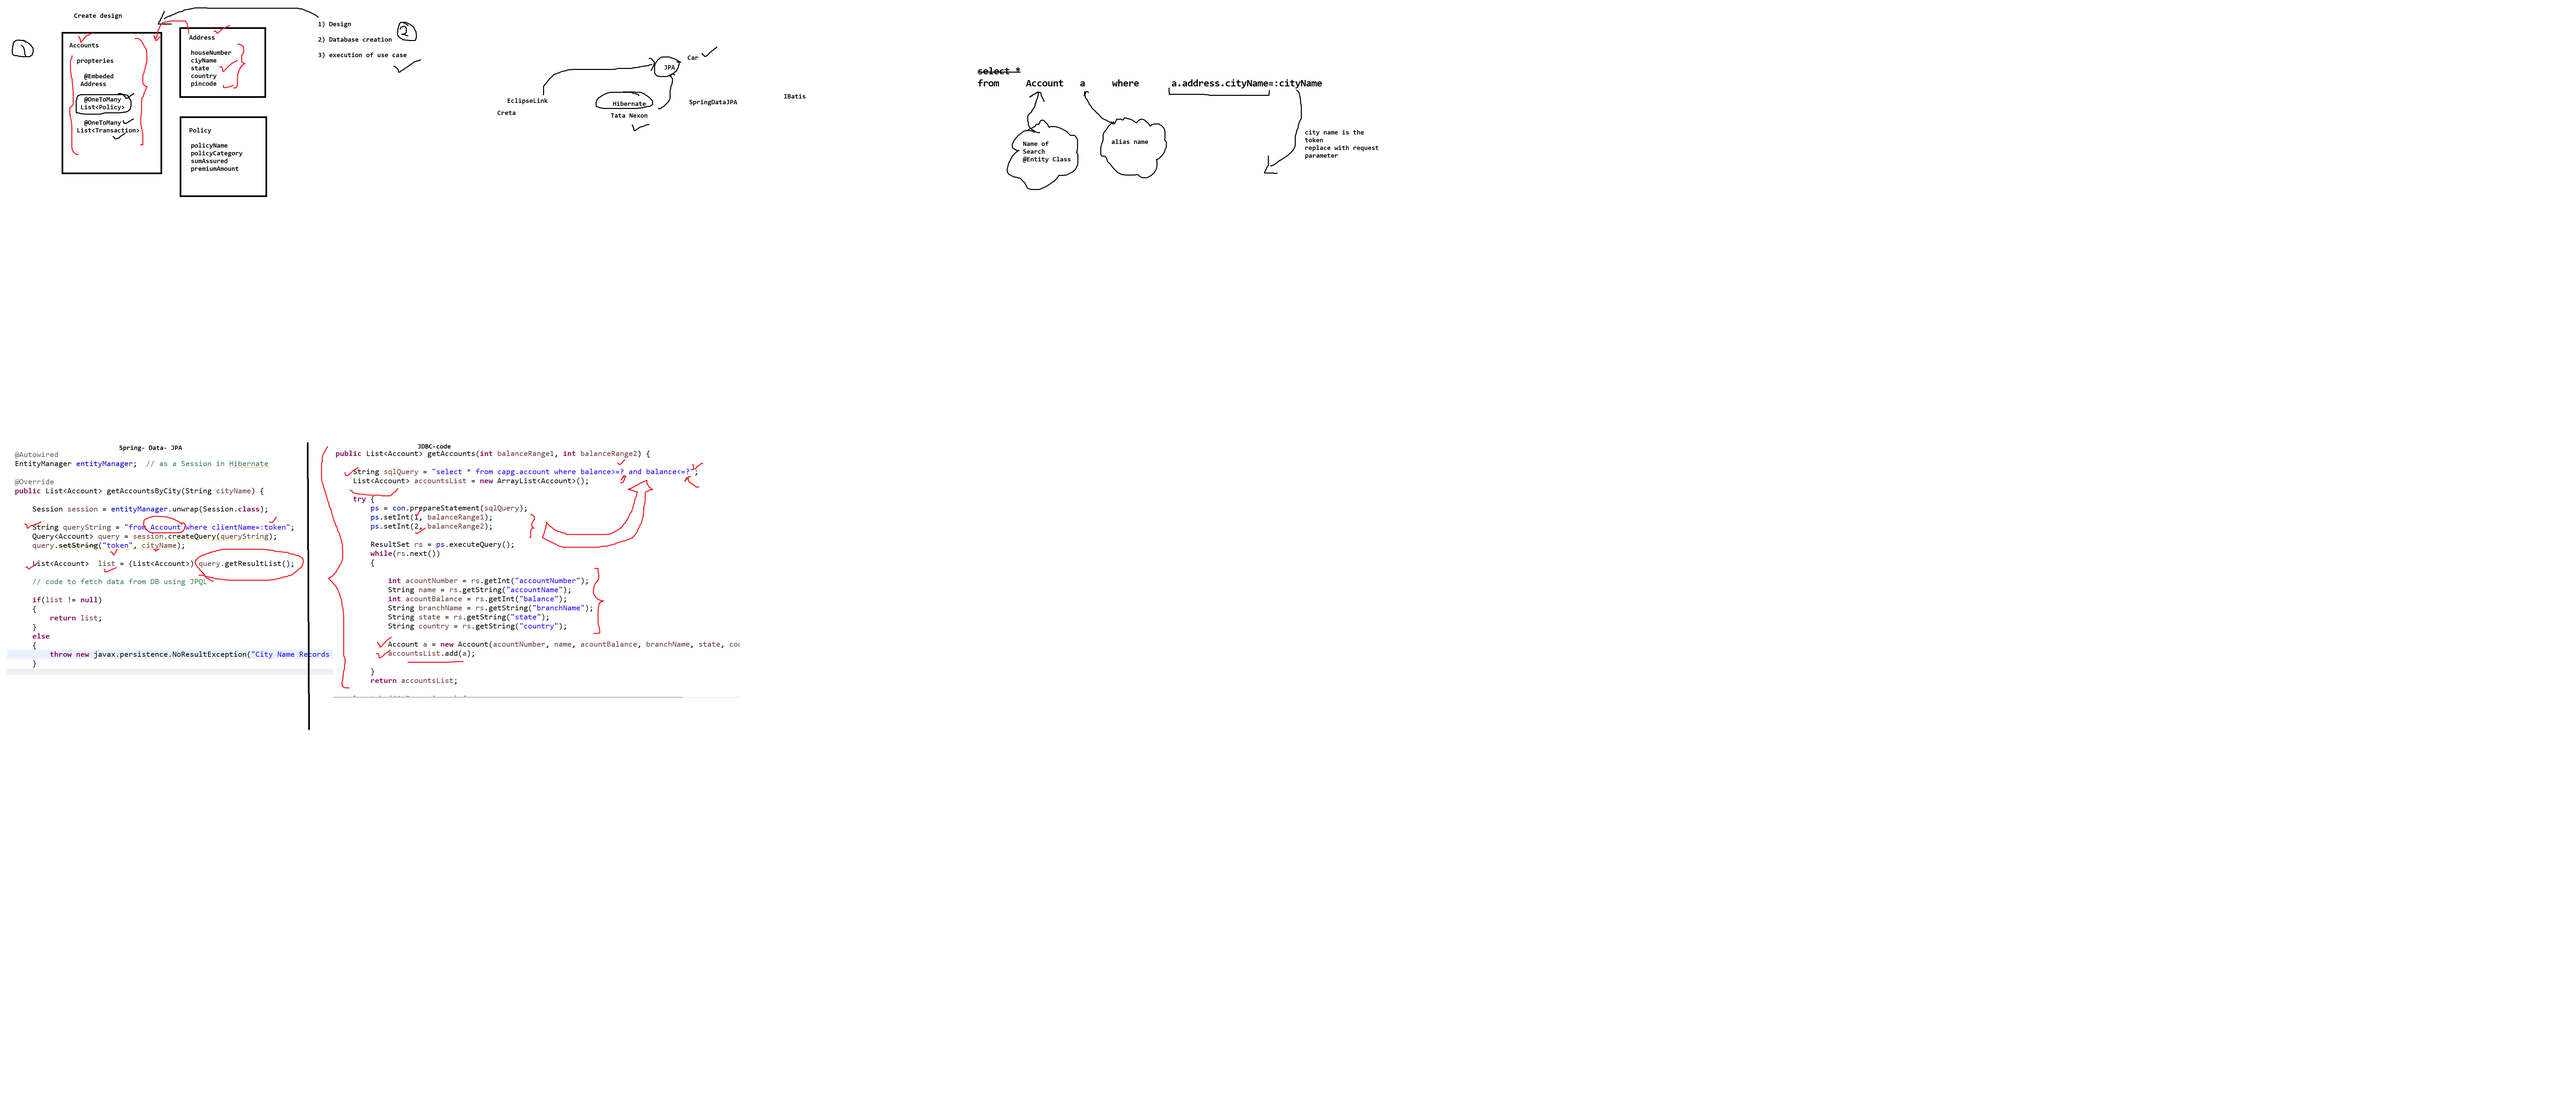
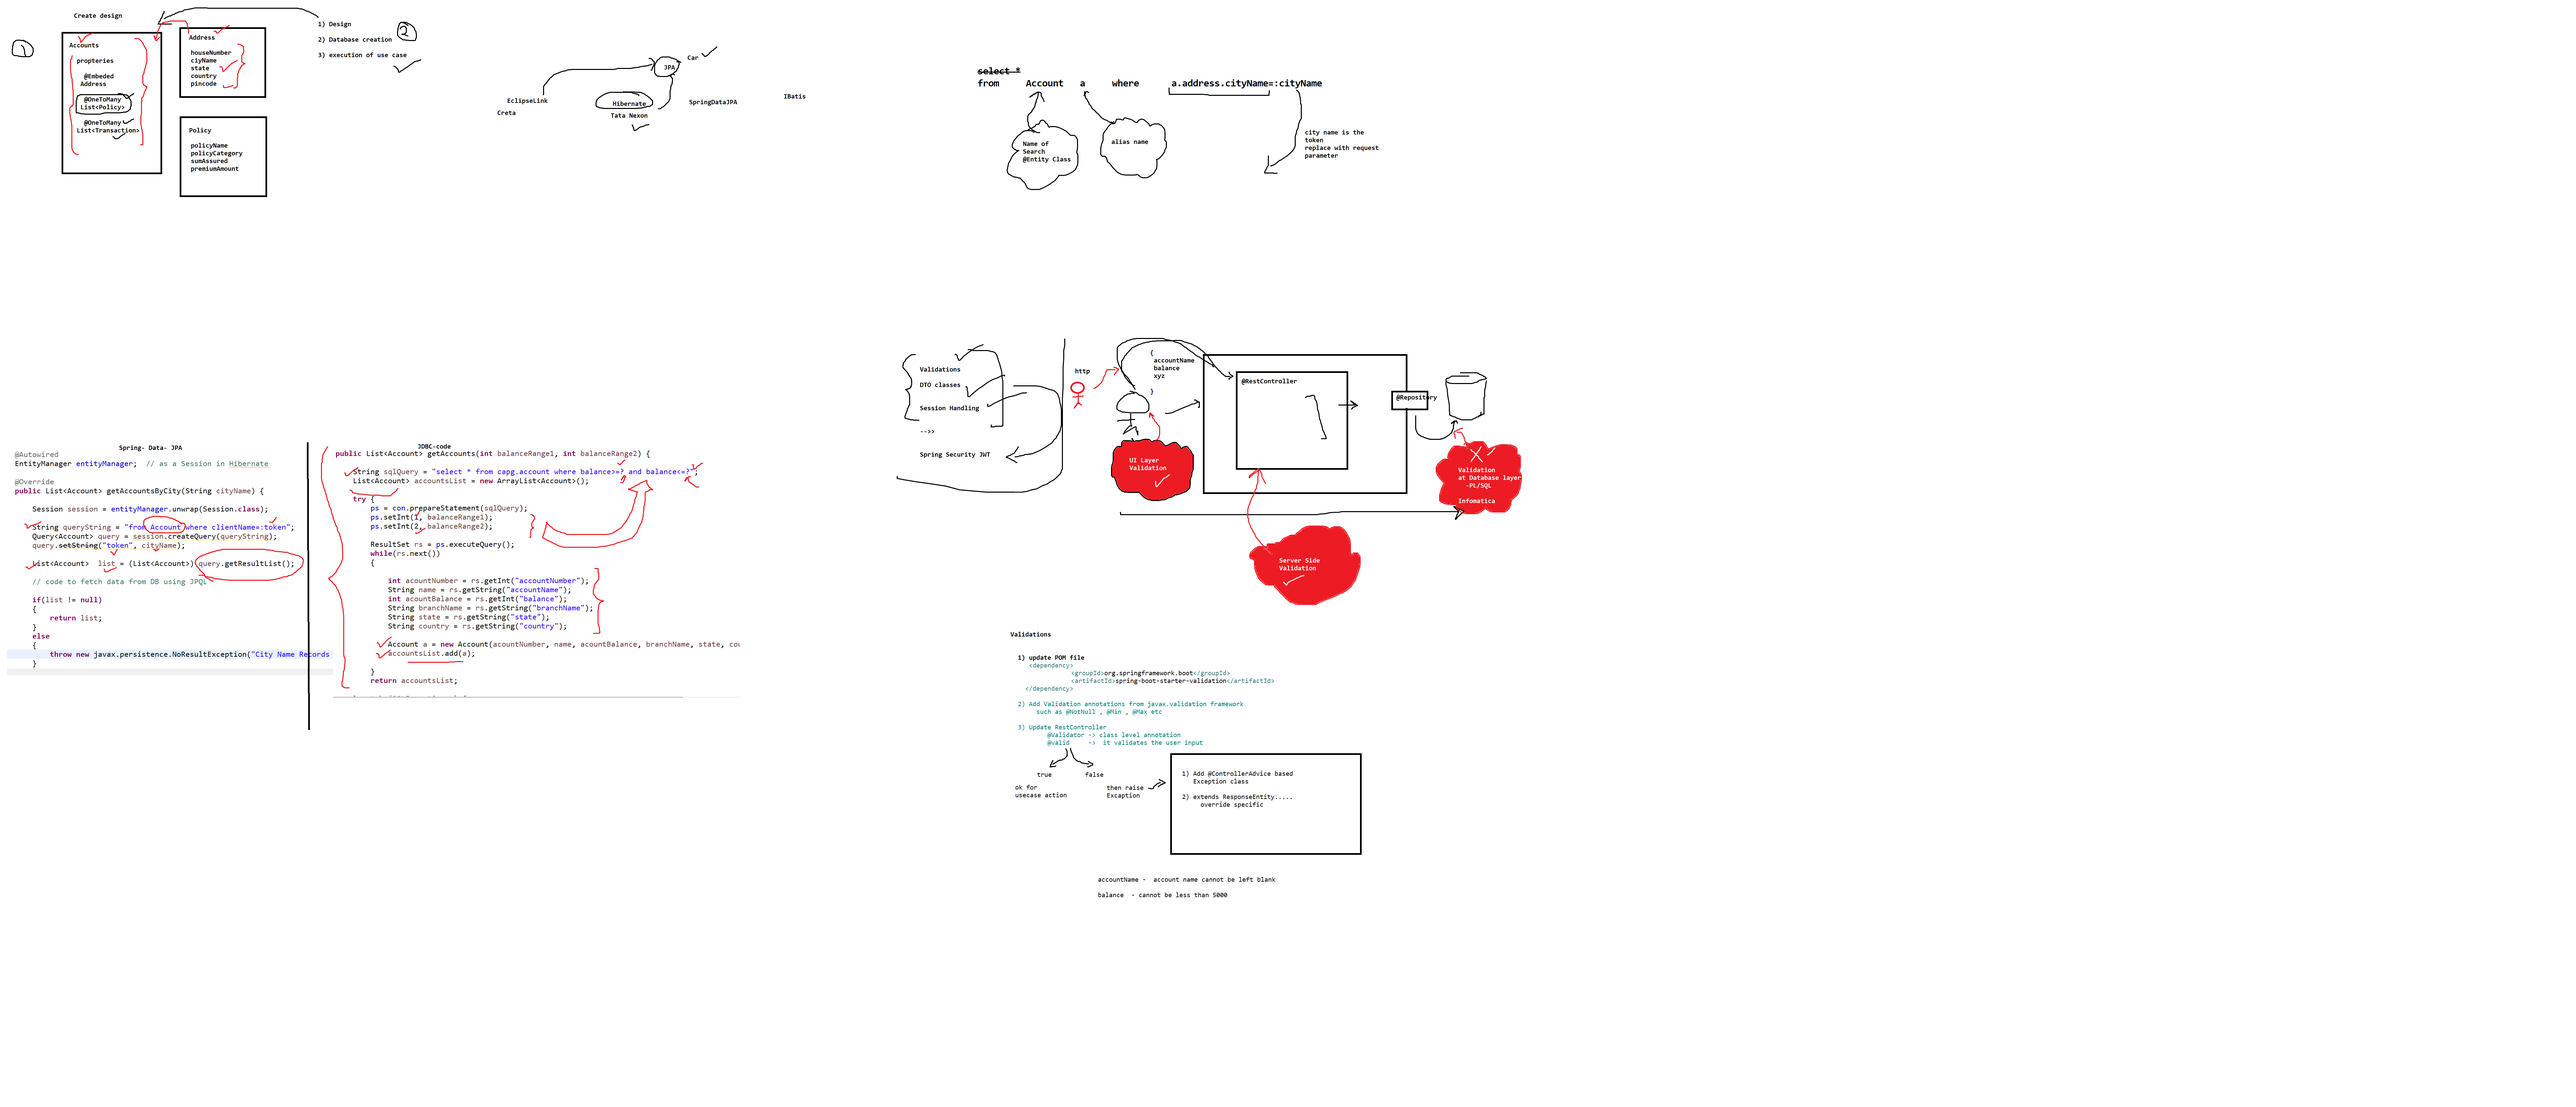
Add files via upload

diff --git a/JA1SpringRestDemo1/src/main/java/com/ecom/app/exceptions/ValidationExceptionHandlerClass.java b/JA1SpringRestDemo1/src/main/java/com/ecom/app/exceptions/ValidationExceptionHandlerClass.java
@@ -1,0 +1,42 @@
+package com.ecom.app.exceptions;
+
+import java.util.HashMap;
+import java.util.List;
+import java.util.Map;
+
+import org.springframework.http.HttpHeaders;
+import org.springframework.http.HttpStatus;
+import org.springframework.http.ResponseEntity;
+import org.springframework.validation.FieldError;
+import org.springframework.validation.ObjectError;
+import org.springframework.web.bind.MethodArgumentNotValidException;
+import org.springframework.web.bind.annotation.ControllerAdvice;
+import org.springframework.web.context.request.WebRequest;
+import org.springframework.web.servlet.mvc.method.annotation.ResponseEntityExceptionHandler;
+
+@ControllerAdvice
+public class ValidationExceptionHandlerClass extends ResponseEntityExceptionHandler {
+
+	@Override
+	protected ResponseEntity<Object> handleMethodArgumentNotValid(MethodArgumentNotValidException exp,
+			HttpHeaders headers, HttpStatus status, WebRequest request) {
+
+		System.out.println("inside validation exception handler class  ");
+		Map<String, String> map = new HashMap<>();
+		// fieldName, errorMsg
+
+		List<ObjectError> list = exp.getBindingResult().getAllErrors();
+		
+		System.out.println(" --->> "+list.size());
+		// all validations exceptions with fieldname and error render msg
+		list.stream().forEach((e) -> {
+			String fieldName = ((FieldError) e).getField();
+			String errorMsg = e.getDefaultMessage();
+
+			map.put(fieldName, errorMsg);
+		});
+
+		return new ResponseEntity<Object>(map, HttpStatus.BAD_REQUEST);
+	}
+
+}

diff --git a/JA1SpringRestDemo1/src/main/java/com/ecom/app/web/MyRestWebController.java b/JA1SpringRestDemo1/src/main/java/com/ecom/app/web/MyRestWebController.java
@@ -2,11 +2,14 @@ package com.ecom.app.web;
 
 import java.util.List;
 
+import javax.validation.Valid;
 import javax.websocket.server.PathParam;
 
 import org.springframework.beans.factory.annotation.Autowired;
 import org.springframework.http.HttpStatus;
 import org.springframework.http.ResponseEntity;
+import org.springframework.validation.BindingResult;
+import org.springframework.validation.annotation.Validated;
 import org.springframework.web.bind.annotation.GetMapping;
 import org.springframework.web.bind.annotation.PathVariable;
 import org.springframework.web.bind.annotation.PostMapping;
@@ -25,6 +28,7 @@ import com.ecom.app.service.IAccountService;
 
 @RestController
 @RequestMapping("/app")
+@Validated
 public class MyRestWebController {
 
 	@Autowired
@@ -43,14 +47,18 @@ public class MyRestWebController {
 	}
 	
 	@PostMapping("/account")
-	public boolean saveAccount(@RequestBody Account a)
-			 throws InsufficientBalanceException,InvalidIFSCCodeException
+	public boolean saveAccount(@RequestBody @Valid Account a)
+			 throws InvalidIFSCCodeException
 	{
-		if(a.getBalance()<5000)
+		/*if(a.getBalance()<5000)
 		{
 			throw new InsufficientBalanceException(a.getBalance());
 		}
-		else service.saveAccount(a);
+		else service.saveAccount(a);*/
+		
+		System.out.println("--->> "+a.getAccountName()+" - "+a.getBalance());
+		
+		service.saveAccount(a);
 		return true;
 	}
 	

diff --git a/JA1SpringRestDemo1/src/main/java/com/ecom/app/entity/Account.java b/JA1SpringRestDemo1/src/main/java/com/ecom/app/entity/Account.java
@@ -13,6 +13,9 @@ import javax.persistence.JoinTable;
 import javax.persistence.ManyToMany;
 import javax.persistence.OneToMany;
 import javax.persistence.SequenceGenerator;
+import javax.validation.constraints.Min;
+import javax.validation.constraints.NotNull;
+
 
 
 
@@ -24,7 +27,9 @@ public class Account {
 	@GeneratedValue(strategy=GenerationType.AUTO,generator="mylogic")
 	private int accountNumber;
 	
+	@NotNull(message = "Account Name Cannot be left Blank")
 	private String accountName;
+	@Min(value = 5000,message = "Min Balance Limit is 5000")
 	private int balance;
 	private String pannumber;
 	private long aadharNumber;

diff --git a/JA1SpringRestDemo1/src/main/java/com/ecom/app/service/AccountServiceImpl.java b/JA1SpringRestDemo1/src/main/java/com/ecom/app/service/AccountServiceImpl.java
@@ -43,7 +43,6 @@ public class AccountServiceImpl implements IAccountService {
 		repository.deleteById(accountNumber);
 		return true;
 	}
-	
 	@Override
 	public boolean checkAccountByID(int accountNumber) {
 		return repository.existsById(accountNumber);
